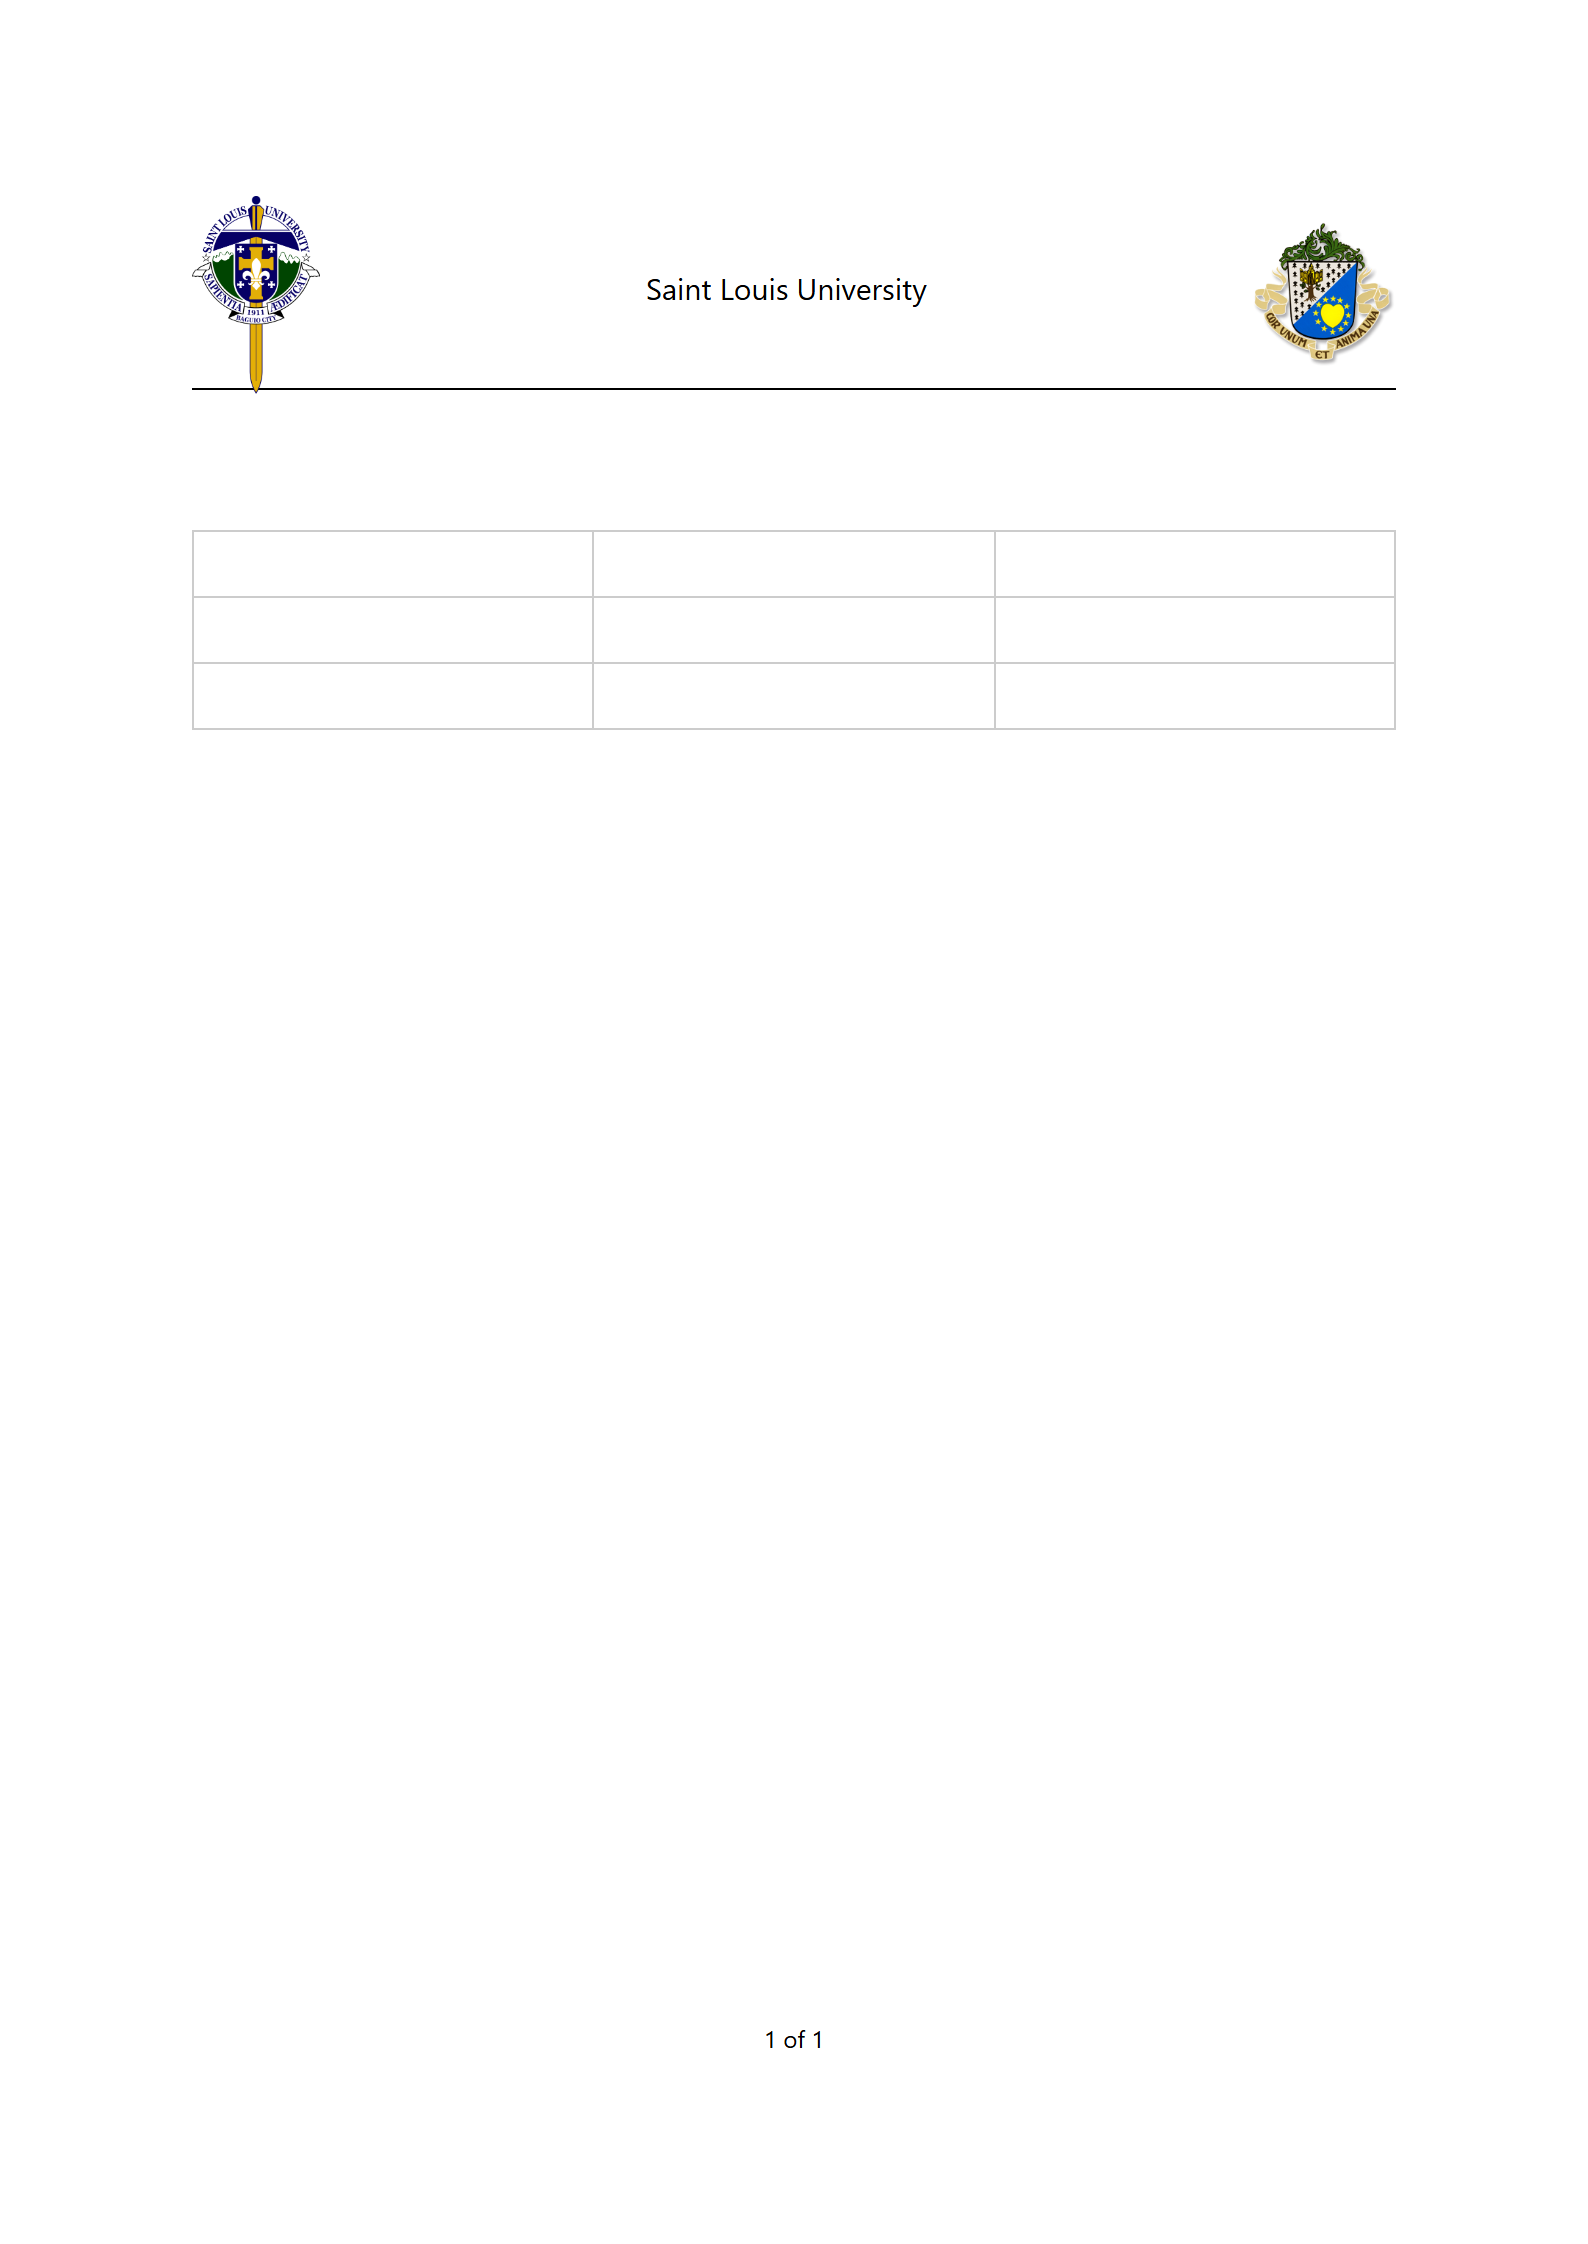
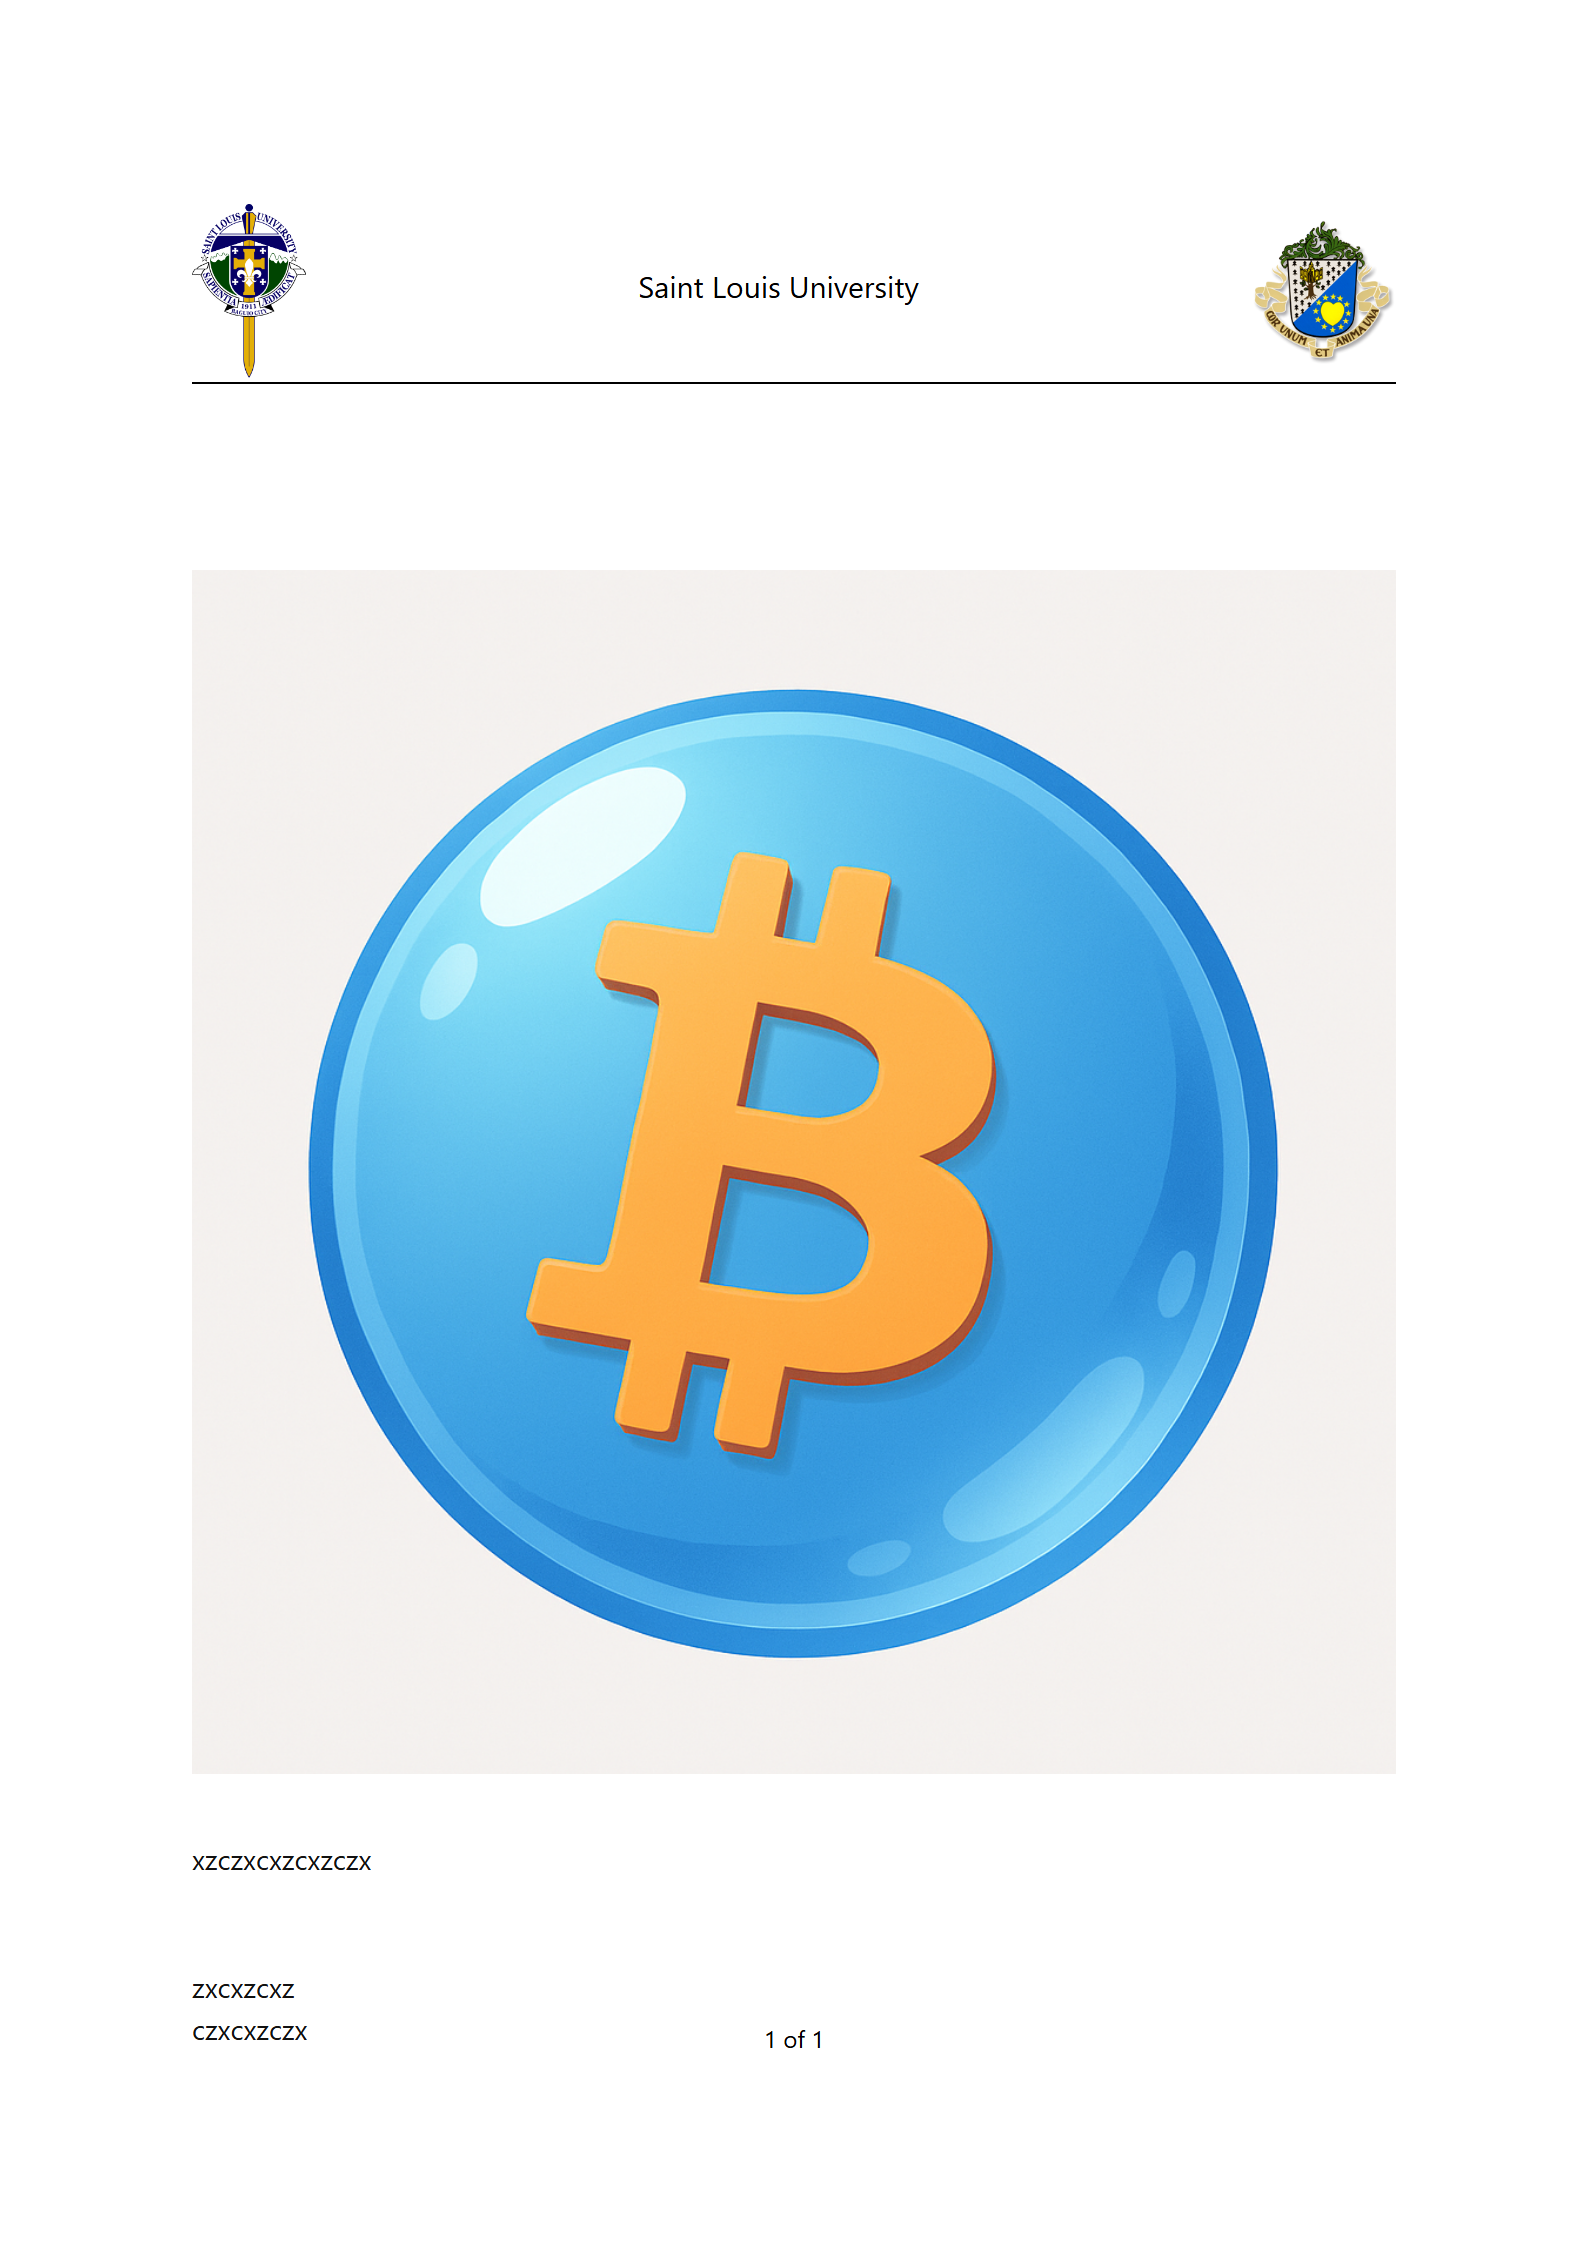
feat: Migrated Images Feat V2 to V3

diff --git a/frontend/src/layout/create_template/insertPanel.jsx b/frontend/src/layout/create_template/insertPanel.jsx
@@ -1,3 +1,4 @@
+// src/layout/create_template/insertPanel.jsx
 import React, { useState } from "react";
 
 export default function InsertPanel({ editor }) {
@@ -41,15 +42,16 @@ export default function InsertPanel({ editor }) {
         const natH = img.naturalHeight || 1;
         const scale = Math.min(1, usableW / natW);
 
+        const targetW = Math.round(natW * scale);
+        const targetH = Math.round(natH * scale);
+
         editor
           .chain()
           .focus()
           .setImage({
             src,
-            width: Math.round(natW * scale),
-            height: Math.round(natH * scale),
-            keepAspect: true,
-            wrapMode: "break",
+            width: targetW,
+            height: targetH,
           })
           .run();
       };
@@ -61,7 +63,56 @@ export default function InsertPanel({ editor }) {
     e.target.value = "";
   };
 
-  /* PURE TIPTAP V2 TABLE COMMANDS */
+  /* IMAGE RESIZE + ALIGNMENT */
+
+  const isImageActive = editor?.isActive("image");
+  const activeImageAttrs = isImageActive
+    ? editor?.getAttributes?.("image") || {}
+    : {};
+  const currentAlign = activeImageAttrs["data-align"] || "inline";
+
+  const resizeImageToFraction = (fraction) => {
+    if (!editor || !isImageActive) return;
+
+    const usableW = getUsablePageContentWidth();
+    const targetW = Math.round(usableW * fraction);
+
+    editor
+      .chain()
+      .focus()
+      .updateAttributes("image", {
+        width: targetW,
+        height: null, // let browser keep aspect ratio
+      })
+      .run();
+  };
+
+  const resetImageSize = () => {
+    if (!editor || !isImageActive) return;
+
+    editor
+      .chain()
+      .focus()
+      .updateAttributes("image", {
+        width: null,
+        height: null,
+      })
+      .run();
+  };
+
+  const alignImage = (align) => {
+    if (!editor || !isImageActive) return;
+
+    editor
+      .chain()
+      .focus()
+      .updateAttributes("image", {
+        "data-align": align, // styled via CSS
+      })
+      .run();
+  };
+
+  /* TABLE INSERTION */
   const insertTable = () => {
     if (!editor) return;
     editor
@@ -95,7 +146,6 @@ export default function InsertPanel({ editor }) {
 
   return (
     <div className="w-full p-4 space-y-8">
-
       {/* IMAGE INSERT */}
       <div>
         <h2 className="text-lg font-semibold mb-3">Insert Image</h2>
@@ -109,6 +159,104 @@ export default function InsertPanel({ editor }) {
             className="hidden"
           />
         </label>
+      </div>
+
+      {/* IMAGE TOOLS (SIZE + ALIGNMENT) */}
+      <div>
+        <h2 className="text-lg font-semibold mb-3">Image Tools</h2>
+
+        {!isImageActive && (
+          <p className="text-sm text-gray-500">
+            Select an image to show size and alignment options.
+          </p>
+        )}
+
+        {isImageActive && (
+          <div className="space-y-4">
+            {/* Size options */}
+            <div>
+              <div className="text-sm font-medium mb-2">Size</div>
+              <div className="grid grid-cols-2 gap-2">
+                <button
+                  type="button"
+                  onClick={() => resizeImageToFraction(0.25)}
+                  className="bg-gray-100 px-3 py-2 rounded text-sm hover:bg-gray-200"
+                >
+                  25% width
+                </button>
+                <button
+                  type="button"
+                  onClick={() => resizeImageToFraction(0.5)}
+                  className="bg-gray-100 px-3 py-2 rounded text-sm hover:bg-gray-200"
+                >
+                  50% width
+                </button>
+                <button
+                  type="button"
+                  onClick={() => resizeImageToFraction(0.75)}
+                  className="bg-gray-100 px-3 py-2 rounded text-sm hover:bg-gray-200"
+                >
+                  75% width
+                </button>
+                <button
+                  type="button"
+                  onClick={() => resizeImageToFraction(1)}
+                  className="bg-gray-100 px-3 py-2 rounded text-sm hover:bg-gray-200"
+                >
+                  100% width
+                </button>
+              </div>
+            </div>
+
+            {/* Alignment options */}
+            <div>
+              <div className="text-sm font-medium mb-2">Alignment</div>
+              <div className="grid grid-cols-3 gap-2">
+                <button
+                  type="button"
+                  onClick={() => alignImage("left")}
+                  className={`px-3 py-2 rounded text-sm border ${
+                    currentAlign === "left"
+                      ? "bg-blue-600 text-white border-blue-600"
+                      : "bg-gray-100 text-gray-800 border-gray-200 hover:bg-gray-200"
+                  }`}
+                >
+                  Left
+                </button>
+                <button
+                  type="button"
+                  onClick={() => alignImage("center")}
+                  className={`px-3 py-2 rounded text-sm border ${
+                    currentAlign === "center"
+                      ? "bg-blue-600 text-white border-blue-600"
+                      : "bg-gray-100 text-gray-800 border-gray-200 hover:bg-gray-200"
+                  }`}
+                >
+                  Center
+                </button>
+                <button
+                  type="button"
+                  onClick={() => alignImage("right")}
+                  className={`px-3 py-2 rounded text-sm border ${
+                    currentAlign === "right"
+                      ? "bg-blue-600 text-white border-blue-600"
+                      : "bg-gray-100 text-gray-800 border-gray-200 hover:bg-gray-200"
+                  }`}
+                >
+                  Right
+                </button>
+              </div>
+            </div>
+
+            <button
+              type="button"
+              onClick={resetImageSize}
+              className="w-full bg-white border border-gray-300 px-3 py-2 rounded text-sm hover:bg-gray-50"
+            >
+              Reset size
+            </button>
+          </div>
+        )}
       </div>
 
       {/* TABLE INSERTION */}
@@ -147,7 +295,7 @@ export default function InsertPanel({ editor }) {
         </button>
       </div>
 
-      {/* TABLE TOOLS (ONLY IF CURSOR IS INSIDE A TABLE) */}
+      {/* TABLE TOOLS */}
       <div>
         <h2 className="text-lg font-semibold mb-3">Table Tools</h2>
 
@@ -159,7 +307,6 @@ export default function InsertPanel({ editor }) {
 
         {isInTable && (
           <div className="space-y-6">
-
             {/* ROW CONTROLS */}
             <div>
               <h3 className="text-sm font-semibold mb-2 text-gray-700">
@@ -271,7 +418,6 @@ export default function InsertPanel({ editor }) {
                 Delete Table
               </button>
             </div>
-
           </div>
         )}
       </div>

diff --git a/frontend/src/assets/css/global.css b/frontend/src/assets/css/global.css
@@ -284,6 +284,120 @@ body { font-family: 'Poppins', sans-serif; }
   font-size: 10px; color: #818cf8; opacity: 0.7; white-space: nowrap;
 }
 
+/* Basic editor styles */
+.tiptap :first-child {
+  margin-top: 0;
+}
 
+.tiptap img {
+  display: block;
+}
+
+/* Base handle style */
+.tiptap [data-resize-handle] {
+  position: absolute;
+  background: rgba(0, 0, 0, 0.5);
+  border: 1px solid rgba(255, 255, 255, 0.8);
+  border-radius: 2px;
+  z-index: 10;
+}
+
+/* Hover */
+.tiptap [data-resize-handle]:hover {
+  background: rgba(0, 0, 0, 0.8);
+}
+
+/* Corner handles */
+.tiptap [data-resize-handle='top-left'],
+.tiptap [data-resize-handle='top-right'],
+.tiptap [data-resize-handle='bottom-left'],
+.tiptap [data-resize-handle='bottom-right'] {
+  width: 8px;
+  height: 8px;
+}
+
+.tiptap [data-resize-handle='top-left'] {
+  top: -4px;
+  left: -4px;
+  cursor: nwse-resize;
+}
+
+.tiptap [data-resize-handle='top-right'] {
+  top: -4px;
+  right: -4px;
+  cursor: nesw-resize;
+}
+
+.tiptap [data-resize-handle='bottom-left'] {
+  bottom: -4px;
+  left: -4px;
+  cursor: nesw-resize;
+}
+
+.tiptap [data-resize-handle='bottom-right'] {
+  bottom: -4px;
+  right: -4px;
+  cursor: nwse-resize;
+}
+
+/* Edge handles */
+.tiptap [data-resize-handle='top'],
+.tiptap [data-resize-handle='bottom'] {
+  height: 6px;
+  left: 8px;
+  right: 8px;
+}
+
+.tiptap [data-resize-handle='top'] {
+  top: -3px;
+  cursor: ns-resize;
+}
+
+.tiptap [data-resize-handle='bottom'] {
+  bottom: -3px;
+  cursor: ns-resize;
+}
+
+.tiptap [data-resize-handle='left'],
+.tiptap [data-resize-handle='right'] {
+  width: 6px;
+  top: 8px;
+  bottom: 8px;
+}
+
+.tiptap [data-resize-handle='left'] {
+  left: -3px;
+  cursor: ew-resize;
+}
+
+.tiptap [data-resize-handle='right'] {
+  right: -3px;
+  cursor: ew-resize;
+}
+
+/* Outline when image is active / resizing */
+[data-resize-state="true"] [data-resize-wrapper] {
+  outline: 1px solid rgba(0, 0, 0, 0.25);
+  border-radius: 0.125rem;
+}
+
+/* image alignment styles */
+.tiptap img[data-align="left"] {
+  display: block;
+  margin-left: 0;
+  margin-right: auto;
+}
+
+.tiptap img[data-align="center"] {
+  display: block;
+  margin-left: auto;
+  margin-right: auto;
+}
+
+.tiptap img[data-align="right"] {
+  display: block;
+  margin-left: auto;
+  margin-right: 0;
+}
 
 

diff --git a/frontend/src/layout/create_template/textEditor.jsx b/frontend/src/layout/create_template/textEditor.jsx
@@ -10,6 +10,7 @@ import Subscript from "@tiptap/extension-subscript";
 import Highlight from "@tiptap/extension-highlight";
 import TextAlign from "@tiptap/extension-text-align";
 import { Extension } from "@tiptap/core";
+import Image from "@tiptap/extension-image"; // ⬅ Image with resize
 
 // PRO EXTENSIONS
 import {
@@ -452,6 +453,14 @@ export default function TextEditor({
       Subscript,
       TextAlign.configure({
         types: ["heading", "paragraph"],
+      }),
+      Image.configure({
+        // base64 so your FileReader + setImage works
+        allowBase64: true,
+        resize: {
+          enabled: true,
+          alwaysPreserveAspectRatio: true,
+        },
       }),
       EditableField,
     ],
